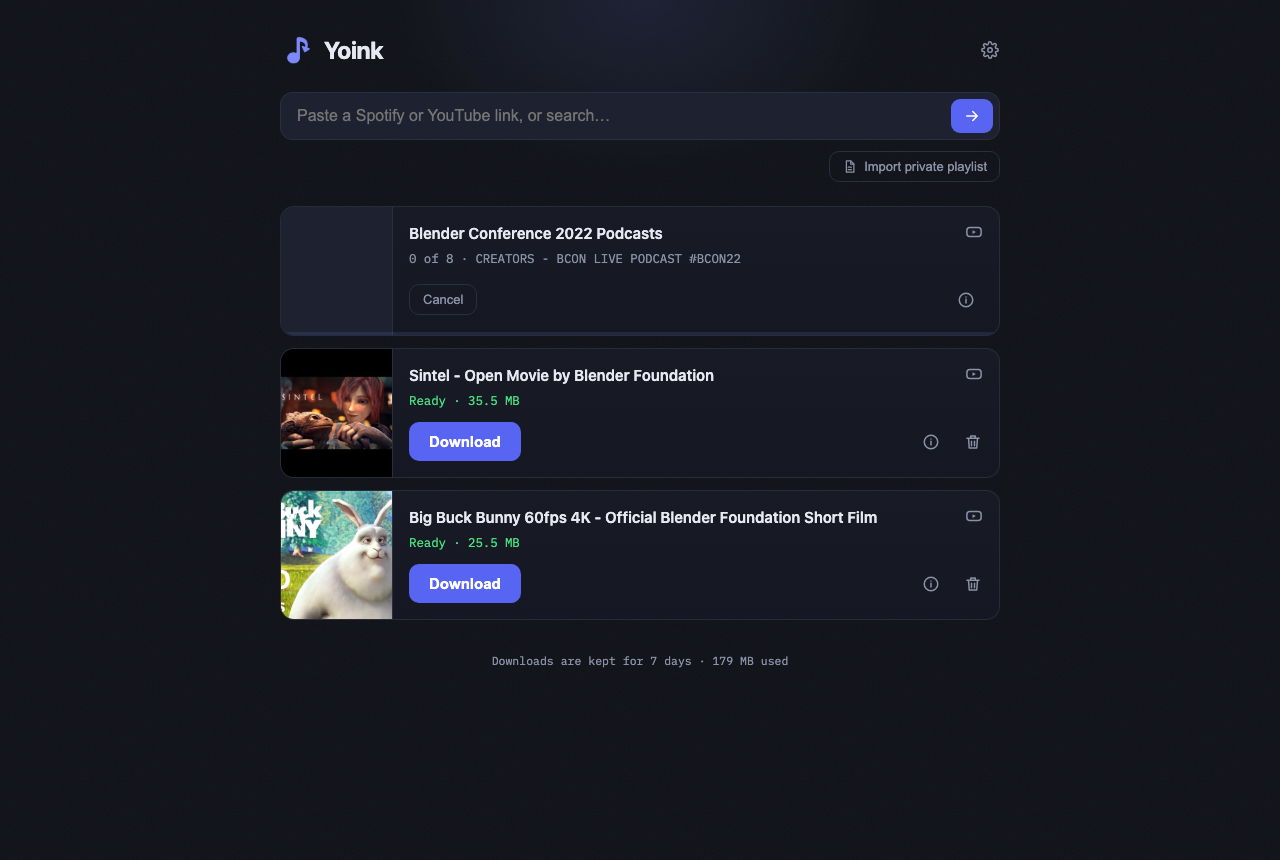
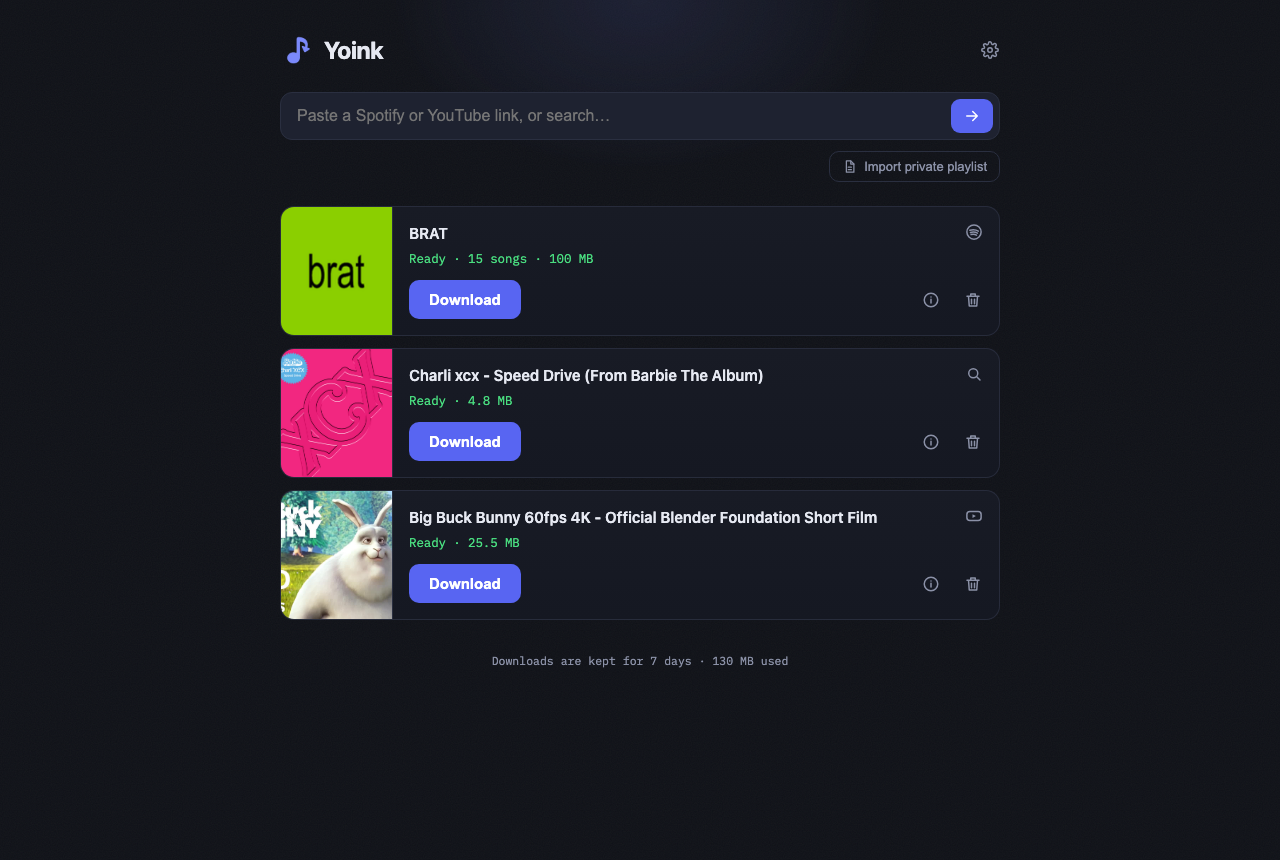
README in the MeTube shape: capabilities up top, paste-able compose, emoji sections, config as a table; screenshot shows all three source types

Changed region(s): [[0.2188, 0.2419, 0.7812, 0.5744], [0.75, 0.4233, 0.7812, 0.4535]]

diff --git a/README.md b/README.md
@@ -1,42 +1,64 @@
 # Yoink
 
-A small self-hosted web app that turns a link into audio files. Paste a
-Spotify or YouTube URL, get tagged MP3s back — from your phone, your laptop,
-or anything else with a browser.
+Yoink is a self-hosted web UI for downloading music. Paste a Spotify or
+YouTube link, get tagged audio files back — from your phone, your laptop, or
+anything else with a browser. It is a **utility, not a music library**: no
+accounts to link, no collection to curate. Files wait a week, then clean
+themselves up.
 
-It is deliberately a **utility, not a music library**: no accounts to link, no
-collection to curate, no sync. Files land in a folder you choose, stay there
-for a week, and clean themselves up.
+Key capabilities:
+
+* **Spotify** tracks, albums, playlists and artists — matched on YouTube
+  Music by [spotDL](https://github.com/spotDL/spotify-downloader), tagged
+  with real Spotify metadata and cover art. No Spotify account or API keys.
+* **YouTube and 1,700+ other sites**, via
+  [yt-dlp](https://github.com/yt-dlp/yt-dlp). Free-text search works too.
+* **Playlists come out ordered** — `01 - Artist - Title.mp3` plus an
+  `.m3u8`, so dumb players (car USB, sports headphones) play them in order.
+* **Private playlists and Liked Songs** via CSV import from
+  [exportify.net](https://exportify.net); failed tracks are listed with a
+  one-click *Retry missing*.
 
 ![Yoink](docs/screenshot.png)
 
-## What it does
-
-- **Spotify links** — track, album, playlist or artist. spotDL matches each
-  song on YouTube Music and tags it with real Spotify metadata and cover art.
-  No Spotify account or API key needed.
-- **YouTube and 1,700+ other sites** — videos and playlists, via yt-dlp.
-- **Private playlists and Liked Songs** — Spotify hides these from links, so
-  Yoink accepts a CSV exported from [exportify.net](https://exportify.net).
-- **Playlists come out ordered** — files numbered `01 - Artist - Title.mp3`
-  with an `.m3u8` alongside, so dumb players (car USB sticks, sports
-  headphones) play them in the right order.
-- **Failures are visible** — songs that couldn't be found are listed, with a
-  *Retry missing* button that re-fetches only those.
-
-## Quick start
-
-You need Docker on x86-64 or ARM64 — a NAS, a Raspberry Pi, a spare laptop.
-Nothing is built on your machine and nothing needs configuring: downloads
-live in a Docker volume and you fetch them through the UI.
+## 🐳 Run using Docker
 
 ```bash
 docker run -d --name yoink -p 127.0.0.1:8080:8080 \
   -v yoink-data:/data -v yoink-downloads:/downloads ghcr.io/daireb/yoink
 ```
 
-Or, better — the compose file adds the sandbox hardening and an optional
-Cloudflare Tunnel, and is what the update script expects:
+## 🐳 Run using Docker Compose
+
+```yaml
+services:
+  yoink:
+    image: ghcr.io/daireb/yoink:latest
+    container_name: yoink
+    restart: unless-stopped
+    user: "10001:10001"
+    read_only: true
+    cap_drop: [ALL]
+    security_opt: [no-new-privileges:true]
+    tmpfs: [/tmp]
+    ports:
+      - "127.0.0.1:8080:8080"
+    volumes:
+      - yoink-downloads:/downloads
+      - yoink-data:/data
+
+volumes:
+  yoink-downloads:
+  yoink-data:
+```
+
+Either way, open **http://localhost:8080** — x86-64 and ARM64 both work, and
+nothing needs configuring: downloads live in a Docker volume and you fetch
+them through the UI.
+
+For a permanent install, prefer the repo's
+[docker-compose.yml](docker-compose.yml) — same thing plus log rotation, an
+optional Cloudflare Tunnel service, and every setting wired to `.env`:
 
 ```bash
 mkdir yoink && cd yoink
@@ -44,134 +66,96 @@ curl -fsSLO https://raw.githubusercontent.com/daireb/yoink/main/docker-compose.y
 docker compose up -d
 ```
 
-Open **http://localhost:8080**.
+## ⚙ Configuration
 
-The port is published on `127.0.0.1` only, so nothing outside the machine
-can reach it — see *Putting it on the internet* for LAN or remote access.
-To land files in a real folder instead of a volume, set `YOINK_DOWNLOADS`
-(see Configuration).
-
-## Configuration
-
-Copy `.env.example` to `.env`; it documents every setting inline.
+Everything is optional. Set values in `.env` next to the compose file
+([.env.example](.env.example) documents each one inline).
 
 | Variable | Default | Purpose |
 |---|---|---|
-| `YOINK_IMAGE` | `ghcr.io/daireb/yoink:latest` | image to run; pin a date tag, or `yoink:local` for your own build |
 | `YOINK_DOWNLOADS` | *(Docker volume)* | set a host folder to keep files on your machine (must be writable by uid 10001) |
 | `YOINK_KEEP_DAYS` | `7` | days a finished download is kept |
 | `YOINK_PASSWORD` | *(unset — no login)* | password for the web UI |
-| `YOINK_SECRET` | auto-generated | cookie-signing secret override |
+| `YOINK_THREADS` | `4` | parallel downloads within one job; use `2` on a small NAS CPU |
 | `TUNNEL_TOKEN` | *(unset)* | Cloudflare Tunnel token for the optional `tunnel` profile |
-| `YOINK_THREADS` | `4` | parallel downloads within one job |
-| `YOINK_PREFLIGHT_TIMEOUT` | `80` | seconds a link lookup may take before giving up |
-| `YOINK_UPDATE_CHECK` | `1` | check PyPI for yt-dlp releases and warn when this install has fallen behind |
+| `YOINK_UPDATE_CHECK` | `1` | warn in the UI when this install falls behind on yt-dlp |
+| `YOINK_PREFLIGHT_TIMEOUT` | `80` | seconds a link lookup may take (keep under your proxy's origin timeout) |
+| `YOINK_SECRET` | auto-generated | cookie-signing secret override |
 
 Per-request defaults — 320/192/128 kbps, MP3/M4A/Opus/FLAC, track numbering —
-live behind the gear icon in the UI and are saved in your browser.
+live behind the gear icon in the UI, saved per browser.
 
-## Putting it on the internet
+## 🌍 Remote access
 
-Yoink has no multi-user model: everyone who reaches it sees the same
-downloads and can start new ones. Pick one of these.
+Yoink has no multi-user model: everyone who reaches it shares one view. The
+port binds to `127.0.0.1`, so out of the box nothing else can reach it.
 
-**Local only (default).** The port is bound to `127.0.0.1`. Nothing to do.
+* **Your LAN** — change the port mapping to `"8080:8080"` and set
+  `YOINK_PASSWORD` to a long passphrase.
+* **From anywhere** — put an identity proxy in front and leave the password
+  unset. The Cloudflare connector is already in the compose file: create a
+  tunnel in [Zero Trust](https://one.dash.cloudflare.com) → Networks →
+  Tunnels, point a public hostname at `http://localhost:8080`, and set in
+  `.env`:
 
-**Your LAN.** Change the port mapping in `docker-compose.yml` to
-`"8080:8080"` and set `YOINK_PASSWORD` to a long passphrase. The app password
-is a single shared secret with a global rate limit — fine for a home network,
-not something to expose to the internet on its own.
+  ```
+  TUNNEL_TOKEN=<your token>
+  COMPOSE_PROFILES=tunnel
+  ```
 
-**From anywhere — recommended: put an identity proxy in front.** Something
-like [Cloudflare Tunnel + Access](https://developers.cloudflare.com/cloudflare-one/)
-or [Tailscale](https://tailscale.com/) authenticates people *before* any
-request reaches Yoink, and needs no ports opened on your router:
+  then `docker compose up -d`. **Add the Access policy before sharing the
+  URL** (Zero Trust → Access → Applications → your hostname → allow your
+  email) — a tunnel without a policy is open to the world. Prefer
+  [Tailscale](https://tailscale.com/)? `tailscale serve 8080` on the host
+  does the whole job.
 
-For Cloudflare, the connector is already in the compose file behind a
-profile — no second setup:
+Yoink trusts `X-Forwarded-Proto` from whatever fronts it, so cookies get the
+`Secure` flag automatically over HTTPS.
 
-1. Zero Trust → Networks → Tunnels → create a tunnel, copy its token into
-   `.env` as `TUNNEL_TOKEN` (plus `COMPOSE_PROFILES=tunnel`, so every later
-   `docker compose up -d` and `update.sh` includes the tunnel), and add a
-   public hostname pointing at `http://localhost:8080`.
-2. Start with `docker compose up -d`.
-3. **Add the Access policy before you share the URL** (Zero Trust → Access →
-   Applications → your hostname → allow your email). A tunnel alone publishes
-   the app to the world with no login; the policy is the lock.
+## 🔄 Updating
 
-For Tailscale, `tailscale serve 8080` on the host does the whole job. Leave
-the port loopback-bound and `YOINK_PASSWORD` unset in both cases.
-
-Yoink trusts `X-Forwarded-Proto` from whatever fronts it, so its cookies get
-the `Secure` flag automatically over HTTPS.
-
-## Keeping it working
-
-yt-dlp is the part that goes stale: YouTube changes something every few weeks
-and older releases stop working. Yoink handles that upstream so you don't
-have to — CI checks PyPI daily and, whenever yt-dlp has released, builds a
-fresh image, smoke-tests it, and publishes it as `latest` (also tagged by date
-and by yt-dlp version, so you can pin if a release ever misbehaves).
-
-Your side is one command, run on a schedule:
+yt-dlp is what goes stale — YouTube changes something every few weeks and
+old releases stop working. A new Yoink image is published automatically
+whenever a new yt-dlp release is available, so keeping fresh is one command,
+run on any schedule (weekly is plenty):
 
 ```bash
-./update.sh        # = docker compose pull && docker compose up -d, plus cleanup
+docker compose pull && docker compose up -d
 ```
 
-Weekly is plenty; daily is fine. On a NAS, use its task scheduler to run the
-script as the Docker user; elsewhere, cron:
+The repo's [update.sh](update.sh) does the same plus housekeeping, and skips
+the restart while a download is running. A plain `restart` updates nothing —
+yt-dlp is baked into the image. If an install falls more than two weeks
+behind, the UI shows a banner saying so, with the command to run: during
+normal operation you never see it.
 
-```cron
-0 4 * * *  /path/to/yoink/update.sh >> /var/log/yoink-update.log 2>&1
-```
+Running from source instead: `docker build -t yoink:local .` and set
+`YOINK_IMAGE=yoink:local` in `.env`.
 
-It prints one line (`current · 2026.08.24-3f1c9a2 · yt-dlp 2026.8.24` or
-`updated → …`) so the log stays readable. A plain `docker compose restart`
-updates nothing — yt-dlp is part of the image.
+## 📝 Notes
 
-If the schedule ever breaks — token revoked, NAS offline, CI stuck — the UI
-tells you: once this install's yt-dlp trails the newest release by more than
-two weeks, a banner appears above the list with the command to run. During
-normal operation you will never see it. Versions and the build id are in
-**Options**.
+* **Audio quality, honestly.** Spotify is only ever the *metadata* source —
+  audio comes from YouTube, whose anonymous ceiling is a ~130 kbps Opus/AAC
+  stream. The 320 kbps default transcodes that with maximum headroom; it
+  sounds good, but it is not a lossless rip. That trade is what keeps the
+  tool free of account logins and ban risk. For bit-perfect copies, buy the
+  files.
+* **Legal.** A personal tool for music you already have access to — offline
+  listening, a USB stick for the car. Downloading from these services may
+  conflict with their terms, and redistributing what you download is
+  copyright infringement in most places. What you do with it is on you.
+* **Interrupted jobs** survive restarts in the SQLite queue and are marked
+  `interrupted`; re-submit to continue. Songs a playlist couldn't match are
+  listed with a *Retry missing* button that fetches only those.
+* **Two lanes.** Single songs, videos and searches run in their own lane, so
+  a pasted track never waits behind a 200-item playlist.
 
-### Running from source
+## 🧠 How it works
 
-```bash
-docker build -t yoink:local .
-echo YOINK_IMAGE=yoink:local >> .env
-docker compose up -d
-```
-
-Rebuild to update; `--build-arg YTDLP_REFRESH=$(date +%s)` forces a fresh
-yt-dlp without busting the rest of the cache.
-
-## Audio quality, honestly
-
-Spotify is only ever the *metadata* source. The audio comes from YouTube,
-where the anonymous ceiling is a ~130 kbps Opus/AAC stream, so the 320 kbps
-default is that stream transcoded with plenty of headroom rather than a
-lossless rip. It sounds good on normal listening gear, and that trade is
-what keeps the tool free of account logins and ban risk. If you want bit-
-perfect copies, buy the files.
-
-## Legal
-
-This is a personal tool for getting copies of music you already have access
-to — offline listening, a USB stick for the car, media you own. Downloading
-from these services may conflict with their terms, and redistributing what
-you download is copyright infringement in most places. What you do with it
-is on you.
-
-## How it works
-
-Two containers' worth of machinery in one small image: a FastAPI app that
-takes requests, and two worker threads that shell out to spotDL and yt-dlp.
-Jobs run in two lanes — a single song never waits behind a 200-track playlist.
-
-For the design, the engine quirks it works around, and the security model,
-see **[ARCHITECTURE.md](ARCHITECTURE.md)**.
+A FastAPI backend and two worker threads shelling out to spotDL and yt-dlp,
+in one small hardened image (non-root, read-only filesystem, no
+capabilities). Design, engine quirks and the security model are in
+**[ARCHITECTURE.md](ARCHITECTURE.md)**.
 
 ```
 app/main.py                  backend + workers (single file)
@@ -181,8 +165,10 @@ app/spotdl_patch.py          metadata-lookup cache for spotDL
 update.sh                    pull the newest image (run on the host)
 ```
 
-## Credits
+## 🙏 Credits
 
-The heavy lifting is done by [spotDL](https://github.com/spotDL/spotify-downloader)
-and [yt-dlp](https://github.com/yt-dlp/yt-dlp); Yoink is a web UI, a job
-queue and some sharp edges filed off. Built with assistance from Claude.
+The heavy lifting is done by
+[spotDL](https://github.com/spotDL/spotify-downloader) and
+[yt-dlp](https://github.com/yt-dlp/yt-dlp); Yoink is a web UI, a job queue
+and some sharp edges filed off. Built with assistance from Claude. MIT
+licensed.
